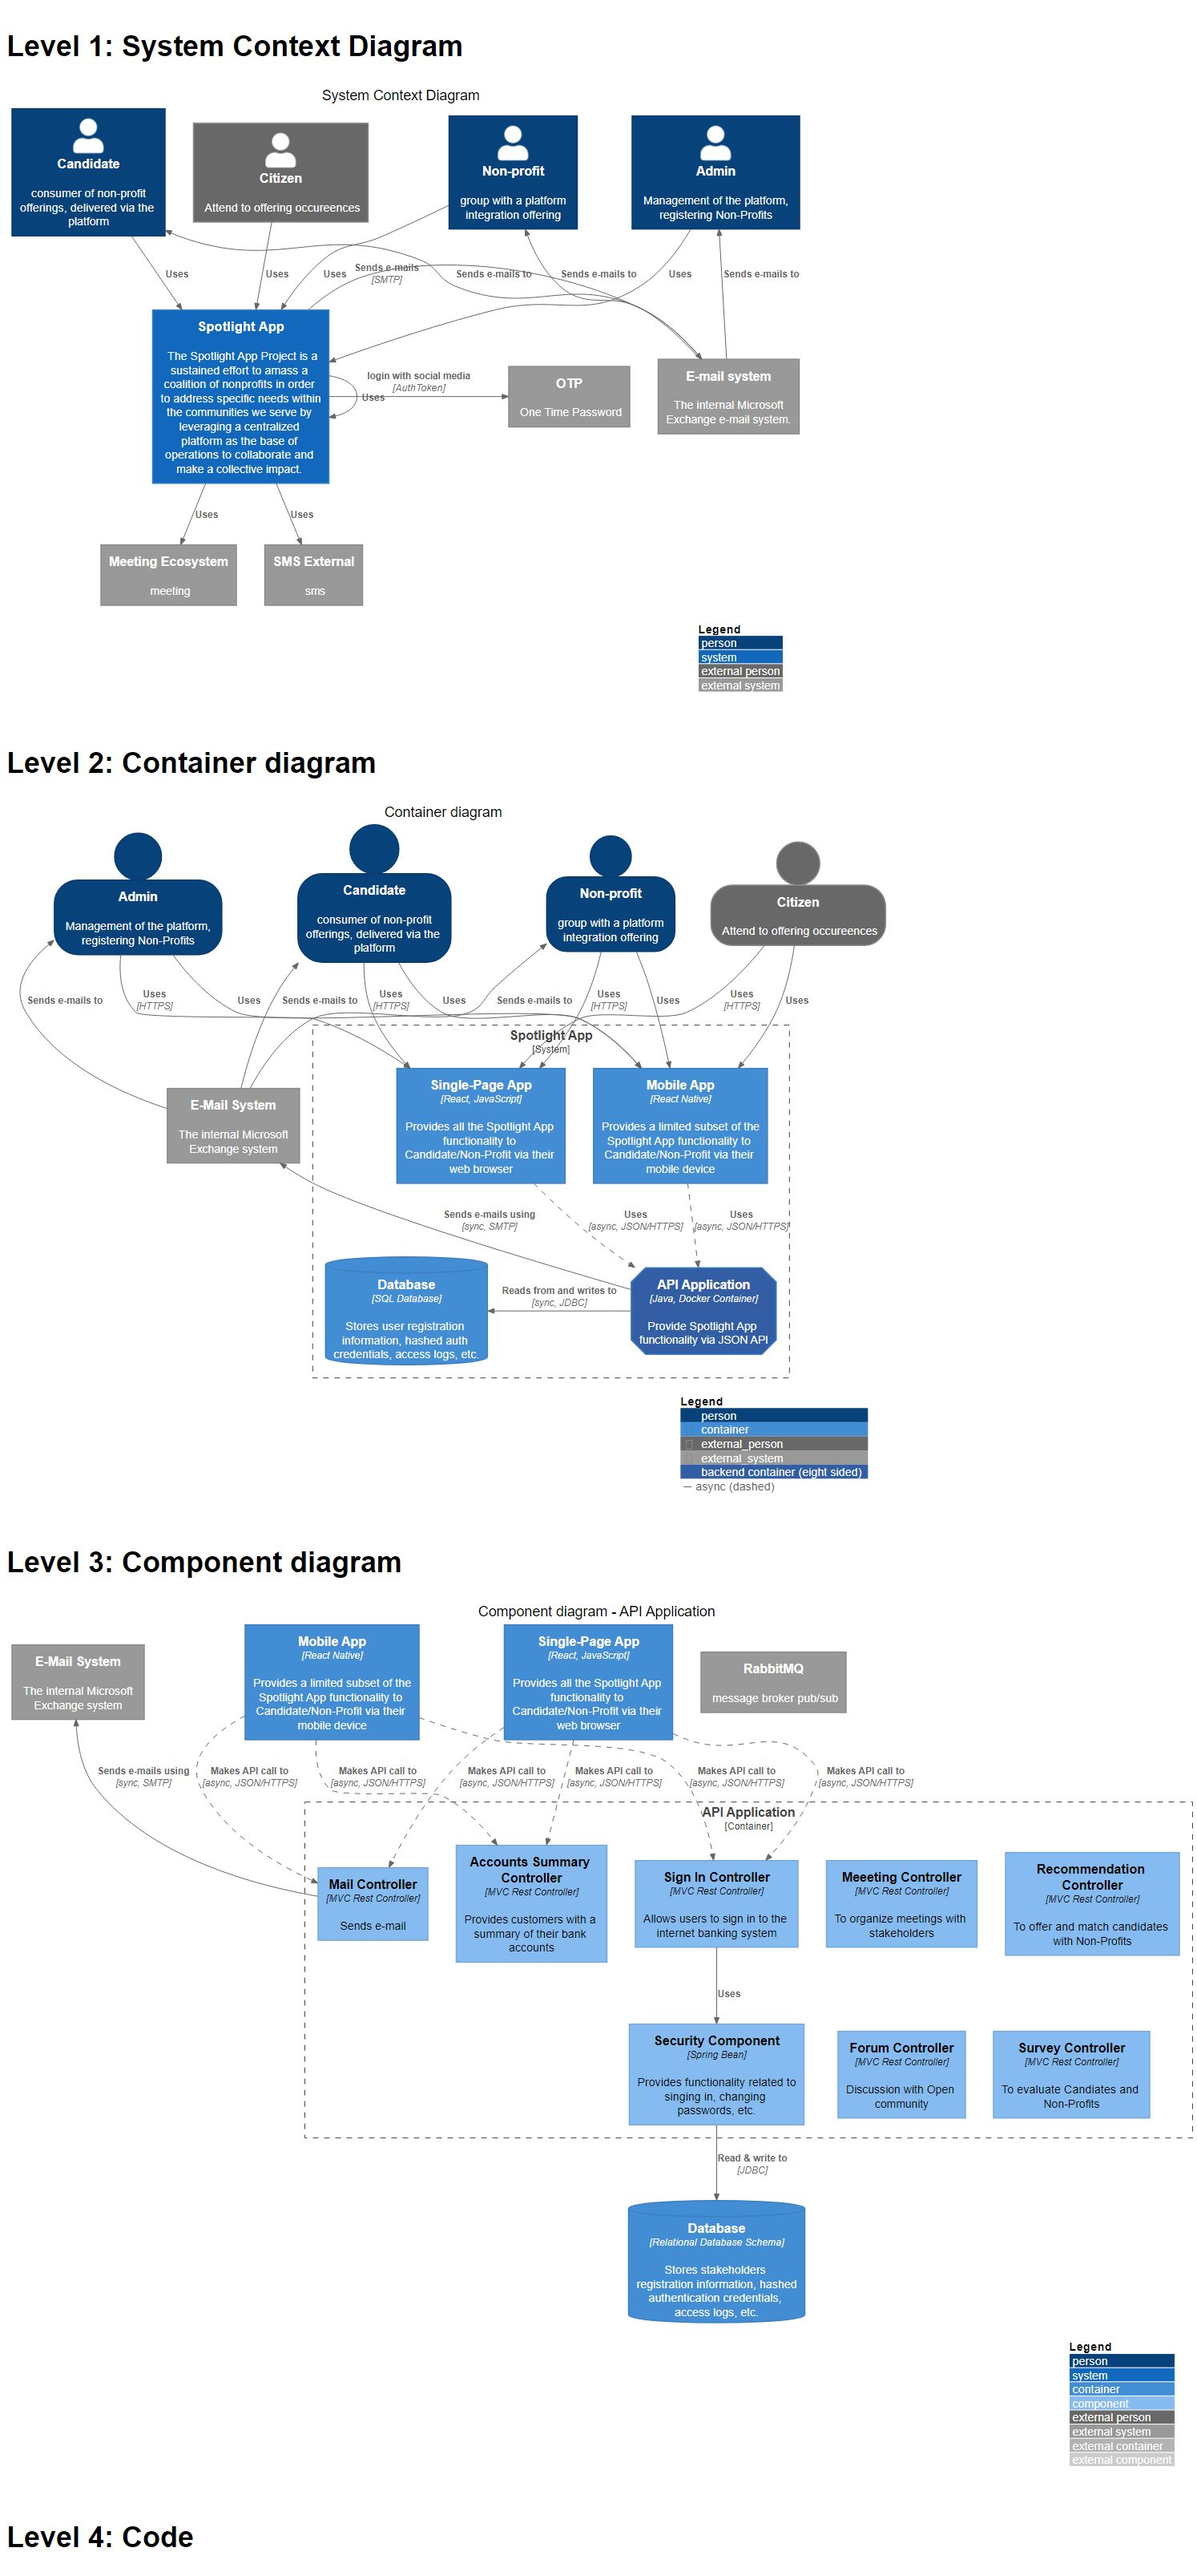
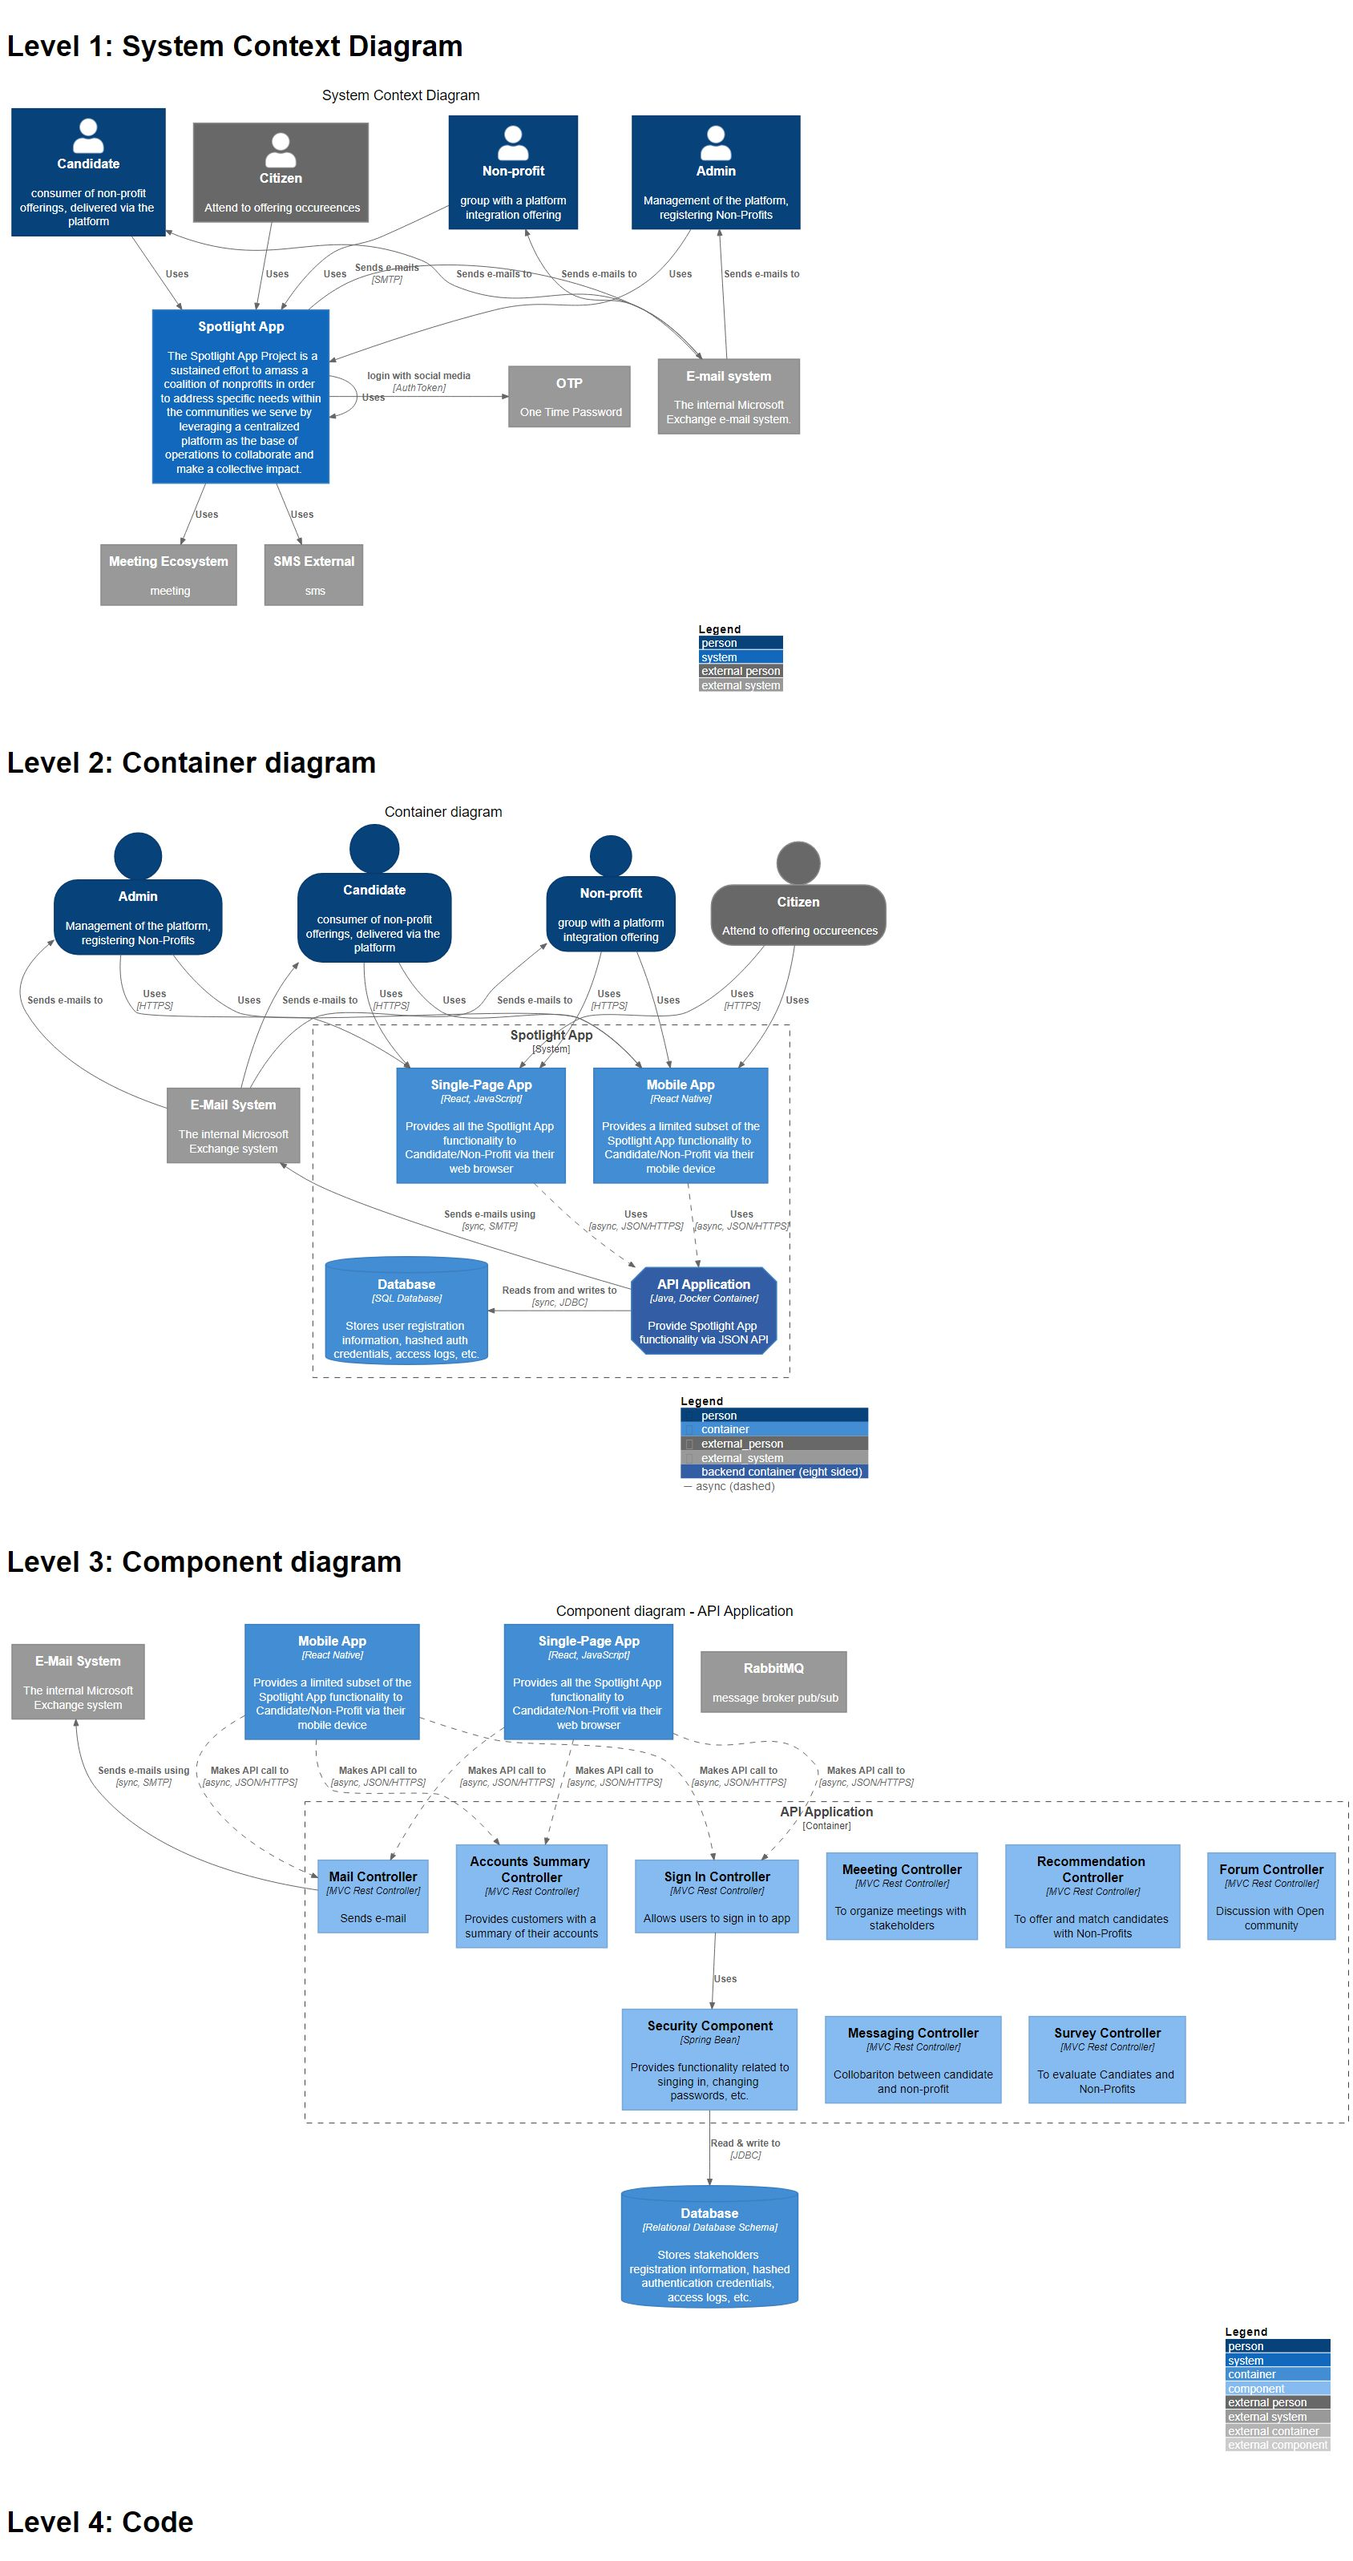
update

diff --git a/2.SolutionBackground/c4.md b/2.SolutionBackground/c4.md
@@ -127,13 +127,14 @@ ContainerDb(db, "Database", "Relational Database Schema", "Stores stakeholders r
 System_Ext(email_system, "E-Mail System", "The internal Microsoft Exchange system")
 
 Container_Boundary(api, "API Application") {
-Component(sign, "Sign In Controller", "MVC Rest Controller", "Allows users to sign in to the internet banking system")
+Component(sign, "Sign In Controller", "MVC Rest Controller", "Allows users to sign in to app")
 Component(mail, "Mail Controller", "MVC Rest Controller", "Sends e-mail")
 Component(meeting, "Meeeting Controller", "MVC Rest Controller", "To organize meetings with stakeholders")
-Component(accounts, "Accounts Summary Controller", "MVC Rest Controller", "Provides customers with a summary of their bank accounts")
+Component(accounts, "Accounts Summary Controller", "MVC Rest Controller", "Provides customers with a summary of their accounts")
 Component(security, "Security Component", "Spring Bean", "Provides functionality related to singing in, changing passwords, etc.")
 Component(recommendation, "Recommendation Controller", "MVC Rest Controller", "To offer and match candidates with Non-Profits")
 Component(forum, "Forum Controller", "MVC Rest Controller", "Discussion with Open community")
+Component(message, "Messaging Controller", "MVC Rest Controller", "Collobariton between candidate and non-profit")
 Component(survey, "Survey Controller", "MVC Rest Controller", "To evaluate Candiates and Non-Profits")
     Rel(sign, security, "Uses")
     Rel(security, db, "Read & write to", "JDBC")
@@ -148,6 +149,7 @@ Rel(ma, accounts, "Makes API call to", "async, JSON/HTTPS", $tags="async")
 Rel(ma, mail, "Makes API call to", "async, JSON/HTTPS", $tags="async")
 
 Rel_Back(email_system, mail, "Sends e-mails using", "sync, SMTP")
+
 @enduml
 
 ```
